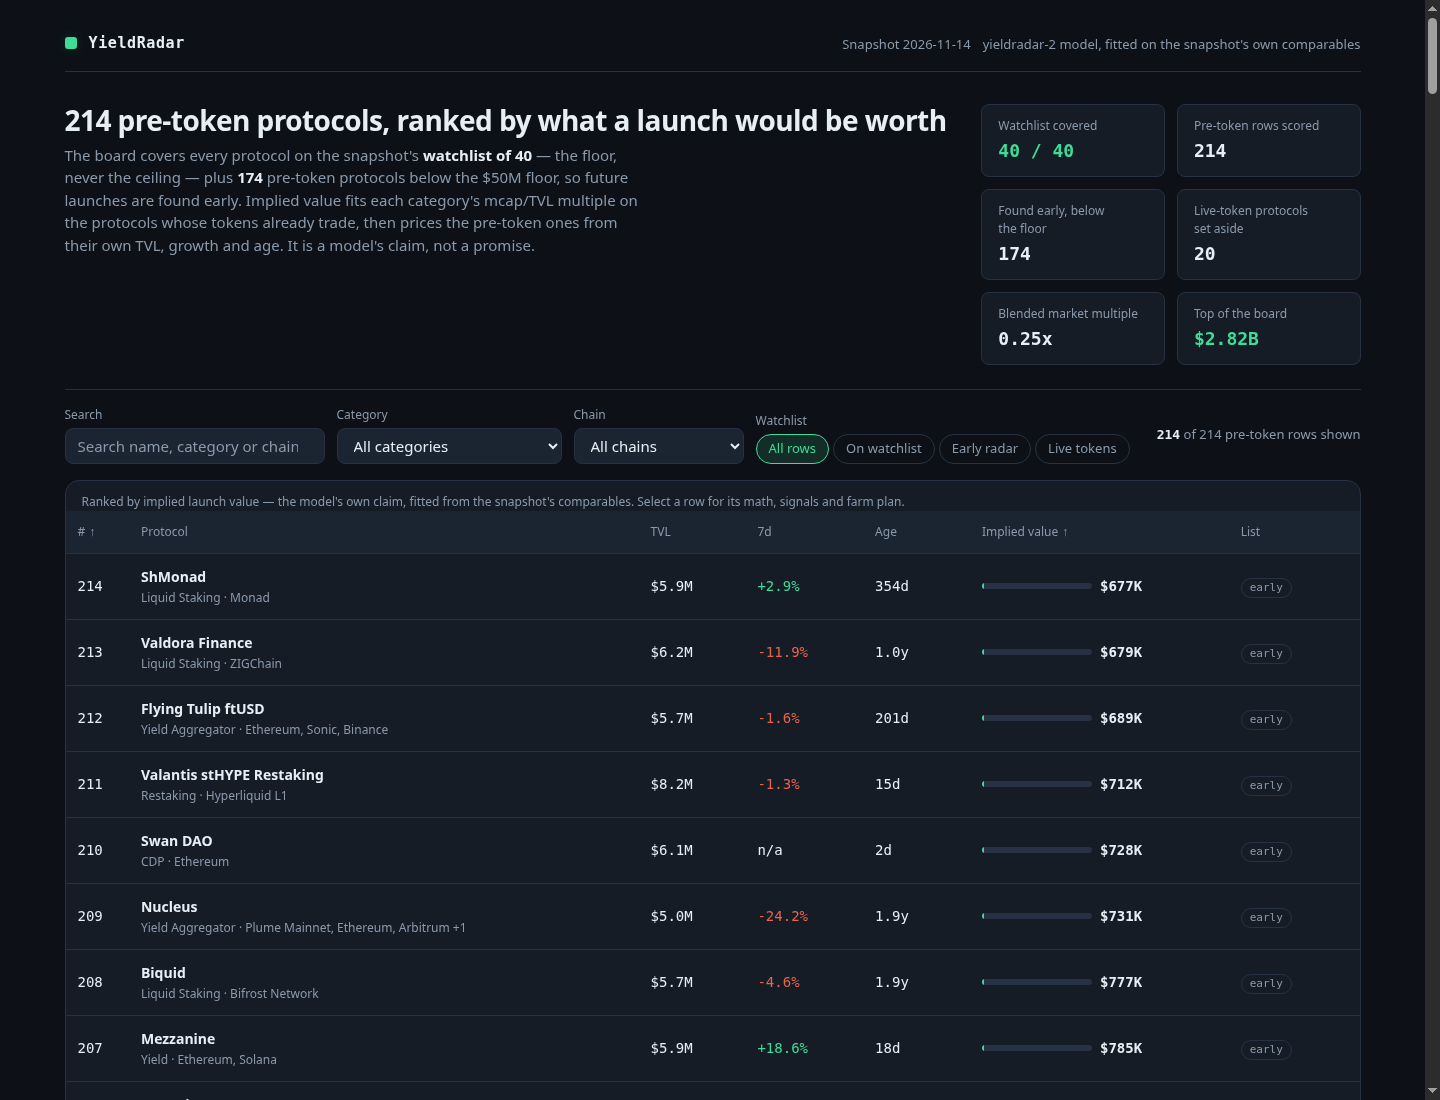
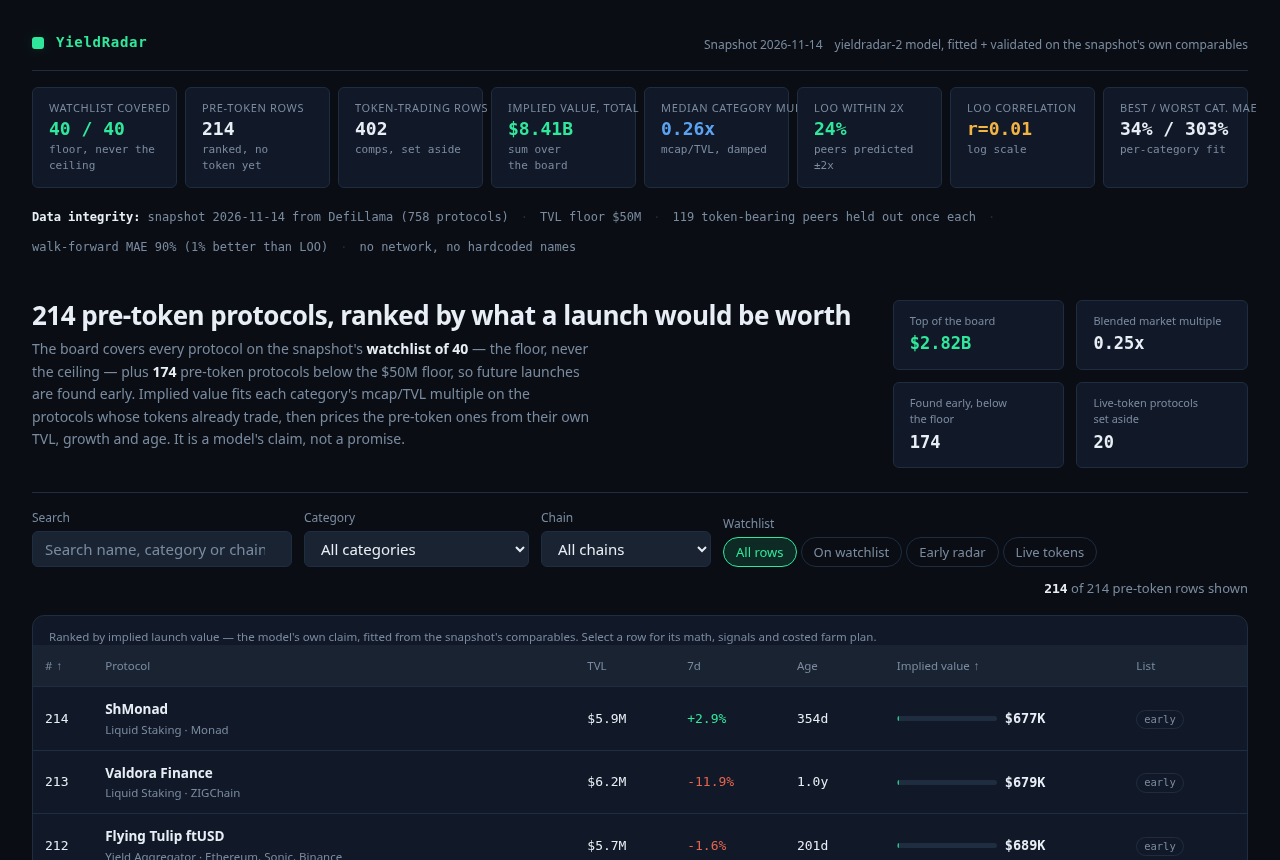
Screenshots: new board (KPI + validation panels), detail view (costed verdict + arithmetic), filtered view; README describes validation and costed verdicts

diff --git a/README.md b/README.md
@@ -24,7 +24,32 @@ patience  = 0.55 at listing → 1.00 at 1095 days of age   (unknown age: 365 day
 implied   = round( tvl_usd x multiple x trend x patience )
 ```
 
-Nothing is hardcoded: no protocol name is special-cased, category multiples are fitted from the snapshot's own token-bearing rows (CEX and sub-$1M rows excluded), and the fit is verified by leave-one-out — every token-bearing peer is held out once, the category multiple refitted without it, and the prediction compared with the peer's true mcap/TVL. The dashboard reports the median absolute error and the share of peers predicted within 2x, which is what a comp-table estimate can honestly promise.
+Nothing is hardcoded: no protocol name is special-cased, category multiples are fitted from the snapshot's own token-bearing rows (CEX and sub-$1M rows excluded).
+
+## How the model validates itself
+
+The dashboard carries a **Model validation** panel whose numbers are computed in `main.ts` from the snapshot's own data — nothing is typed in:
+
+- **Leave-one-out (LOO).** Every token-bearing peer is held out once, the model refitted without it, and the multiple predicted for the held-out peer compared with its true mcap/TVL. The panel reports the median absolute error, the share of peers predicted within 0.5–2x and within 0.33–3x, and a Pearson correlation between predicted and actual multiples on the log scale — plus the same per category (categories with 3+ peers shown; thin categories say so and lean on the blended multiple).
+- **Walk-forward (temporal split).** Peers with listing dates are sorted; the older 60% train the multiples (with their own damping), the newer 40% — unseen by that fit — score it. The panel reports the test MAE, within-2x share, correlation, and the MAE difference vs LOO, so a reader can see the fit survive time, not just one held-out peer at a time. When too few peers carry dates, the panel says so rather than inventing a split.
+- **Range honesty.** The share of peers whose true multiple lands in each band around the model's prediction — 0.5–2x (tight), 0.33–3x (working), 0.25–4x (wide) — and the share outside all three, which is the part of the board a reader should distrust.
+
+A comps estimate cannot pin a market cap tighter than a band; these are the numbers that say how wide the honest band is.
+
+## Costed farm verdicts
+
+Each protocol's farm plan carries a concrete verdict, derived from the protocol's own record — capital from the TVL tier ($50/$100/$250/$500), gas from its main chain ($6 Ethereum, $1 Solana/Bitcoin, $2 elsewhere), one qualifying action a week over the hold window (45–90 days by age):
+
+```
+Est. cost: ~$258 · Time: 6 weeks · Avg $/hr: $0.26
+           ($250 capital + $8 gas)   (258 ÷ 1,008h)
+```
+
+The verdict banner sits at the top of the detail view, next to the full implied-value arithmetic (TVL × multiple × trend × patience, each term's number shown with its source), the launch signs to watch, and the validation figures for the row's own category.
+
+## The board at a glance
+
+The page opens on a **KPI strip** (watchlist covered, pre-token vs token-trading rows, implied-value total, median category multiple, LOO accuracy, best/worst per-category MAE) and a one-line **data-integrity strip** (snapshot as_of, TVL floor, protocol count, peers held out, walk-forward result). Below it: the sortable, filterable board; the model's formula; the validation panel; and a live-token table of the comparables, set aside from the ranking.
 
 The board separates protocols whose token already trades (shown with their market's own mcap/TVL, set aside from the ranking) from pre-token ones. The snapshot's watchlist — protocols at or above the house's $50M TVL floor with no token recorded — is the floor, never the ceiling: the board adds every pre-token protocol below the floor with meaningful TVL, so future launches are found early.
 
@@ -46,14 +71,15 @@ mkdir -p out && MAKEFUN_OUTPUT_DIR=out node main.ts --input /input/snapshot.json
 
 ## The dashboard
 
-A dark-theme, single-page board: sortable columns, a search box, category and chain filters, a watchlist/early/live toggle, the model's formula and its leave-one-out fit report, and a detail dialog per protocol with the implied-value arithmetic (the page recomputes each row from the same rounded multipliers the data carries), the launch signs to watch, and the farm plan — seven steps with what each costs, how long it takes and where to do it.
+A dark-theme, single-page board: a KPI strip and data-integrity line up top; sortable columns; a search box; category and chain filters; a watchlist/early/live toggle; the model's formula and its validation panel (leave-one-out, walk-forward, range-honesty bands); and a detail dialog per protocol with the costed verdict banner (est. cost · time · avg $/hr), the implied-value arithmetic (the page recomputes each row from the same rounded multipliers the data carries), the launch signs to watch, the validation figures for the row's own category, and the farm plan — seven steps with what each costs, how long it takes and where to do it.
 
 ## Repository layout
 
 ```
-main.ts            the entry program
-lib/model.ts       snapshot parsing, eligibility, comparables fit, verification, scoring, board
-lib/plans.ts       farm-plan generation from each protocol's own record
+main.ts            the entry program: parse, fit, validate, score, write
+lib/model.ts       snapshot parsing, eligibility, comparables fit, validation (LOO, walk-forward,
+                   range honesty), scoring, board assembly
+lib/plans.ts       farm plans and costed verdicts ($/hr) from each protocol's own record
 dashboard/         index.html, app.css, app.js — the page the program copies to /output
 vendor/makefun-board.ts   make.fun's dossier library, unchanged
 screenshots/       the three hand-in screenshots
